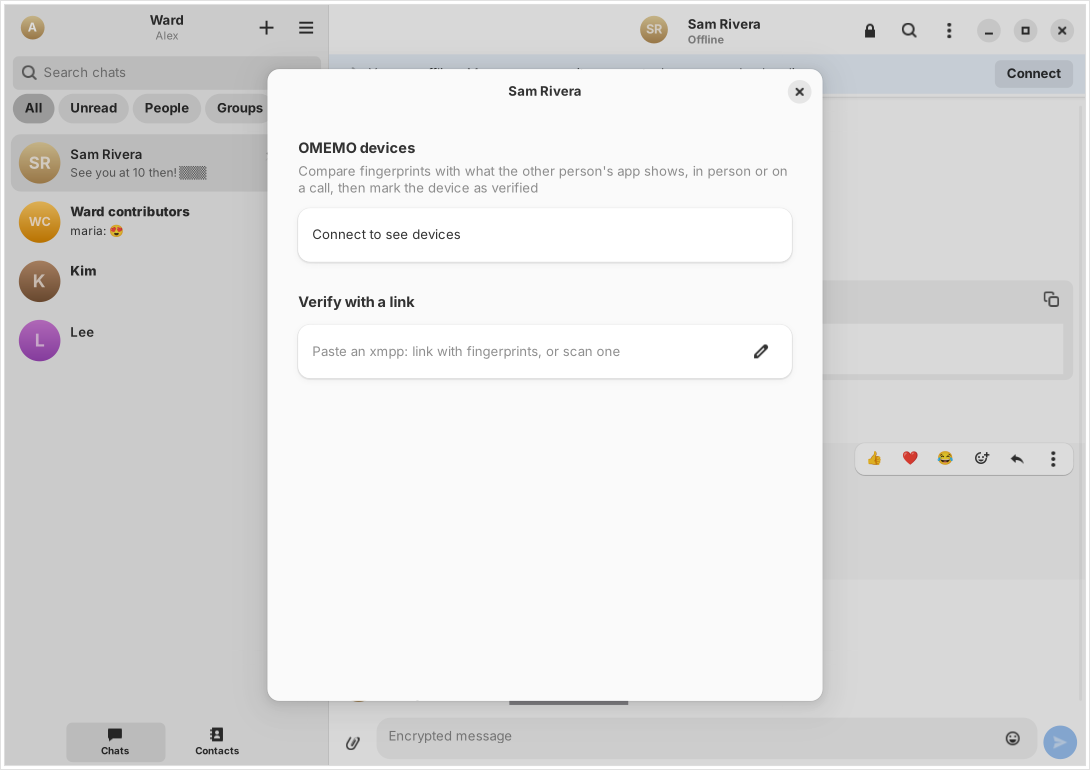
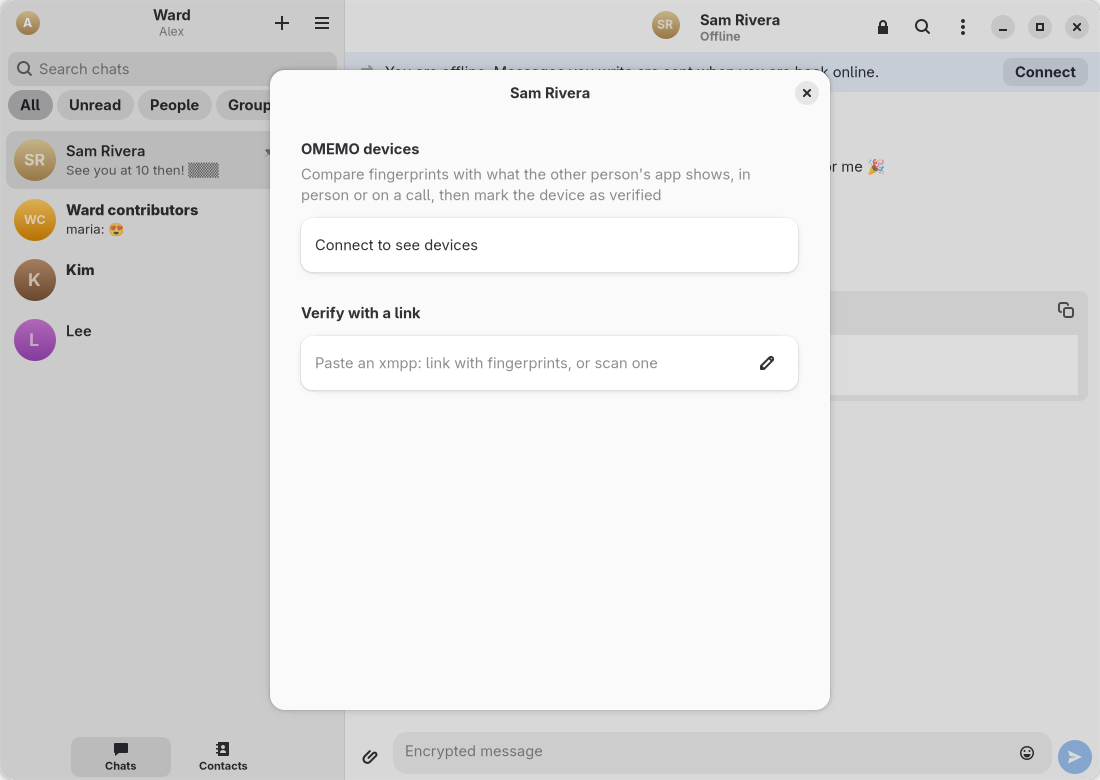
docs: refresh the screenshots from the current interface
Generated with tools/screenshot.py on the current tree.  The tool now:

- forces light for the documentation (and dark for the dark scenario)
  instead of following this machine's theme, so regenerating on a dark
  desktop does not turn every picture dark;
- activates the vendored OMEMO libraries, so the screenshots show the
  encryption state and the devices page the way an installed Ward does
  (the composer says "Encrypted message", the devices page offers to
  connect instead of asking to install encryption support);
- hides any hover actions right before the snapshot, so a pointer that
  happens to rest on a message does not put its reaction bar into the
  documentation.

All ten scenarios were regenerated: welcome, chat, chat-dark, group,
bubbles, compact, narrow, preferences, devices and details.  The README
and the metainfo reference the same files.

diff --git a/tools/screenshot.py b/tools/screenshot.py
@@ -57,8 +57,8 @@ async def populate(home: str, scenario: dict) -> None:
     from ward.settings import Settings
 
     settings = Settings()
-    if scenario.get("dark"):
-        settings["appearance.style"] = "dark"
+    # the documentation's look: light except where a scenario asks for dark, whatever this machine's theme is
+    settings["appearance.style"] = "dark" if scenario.get("dark") else "light"
     if scenario.get("layout"):
         settings["appearance.layout"] = scenario["layout"]
     settings.flush()
@@ -124,8 +124,9 @@ def child(name: str, out: str) -> int:
     gi.require_version("Adw", "1")
     from gi.repository import GLib, Gtk
 
-    from ward import aio, i18n
+    from ward import aio, extras, i18n
 
+    extras.activate()       # the OMEMO libraries install.sh vendored, as the launcher would find them
     i18n.setup()
     scenario = SCENARIOS[name]
     loop = aio.install()
@@ -143,6 +144,9 @@ def child(name: str, out: str) -> int:
 
     def shoot():
         w = app.window
+        # the pointer may rest over a message: its hover actions are not part of the documentation
+        for row in list(w.conversation.rows.values()):
+            row._hover(False)
         if os.environ.get("WARD_DEBUG_TREE"):
             def walk(x, depth=0):
                 if type(x).__name__ == "Bin" or "Bin" in type(x).__gtype__.name:
